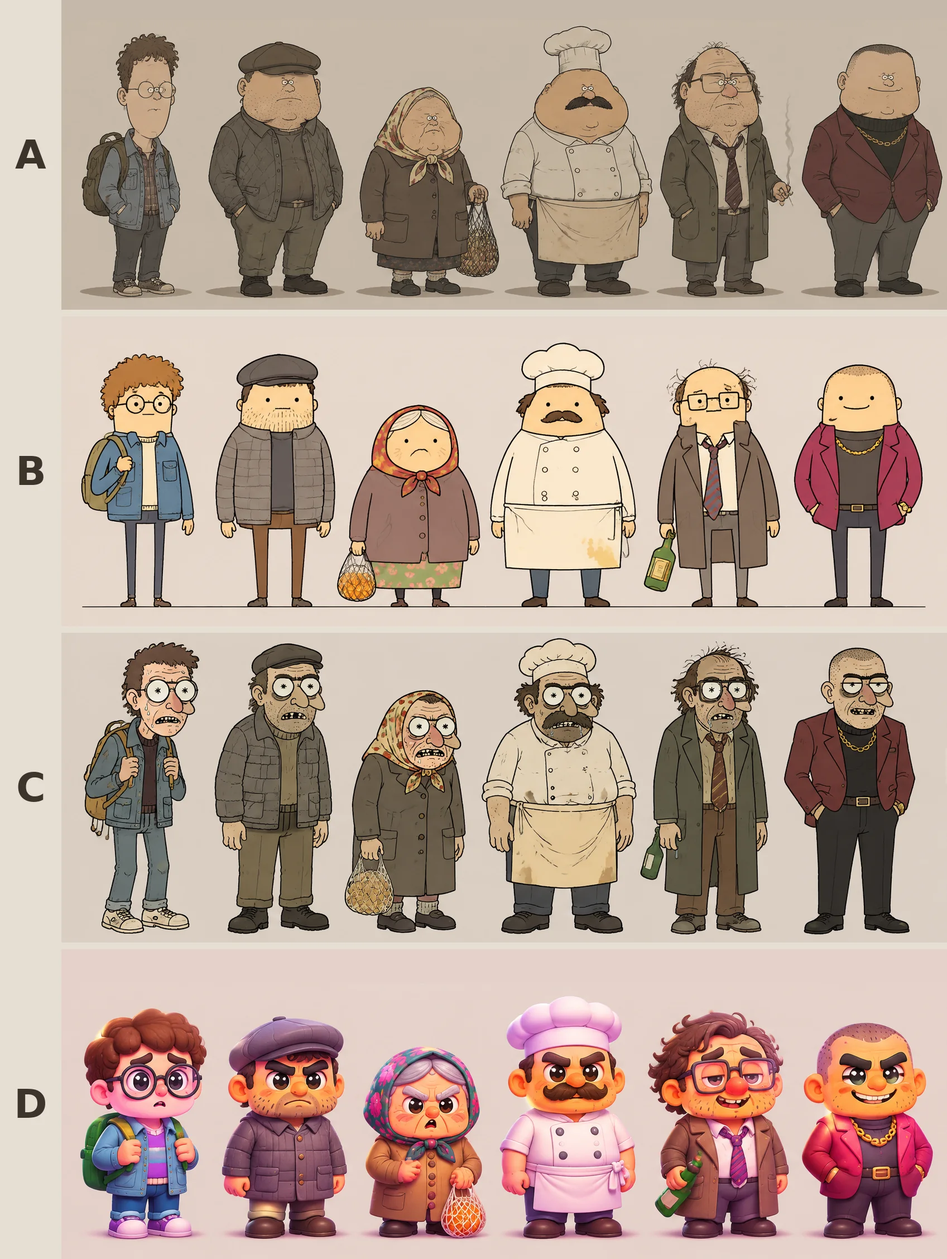
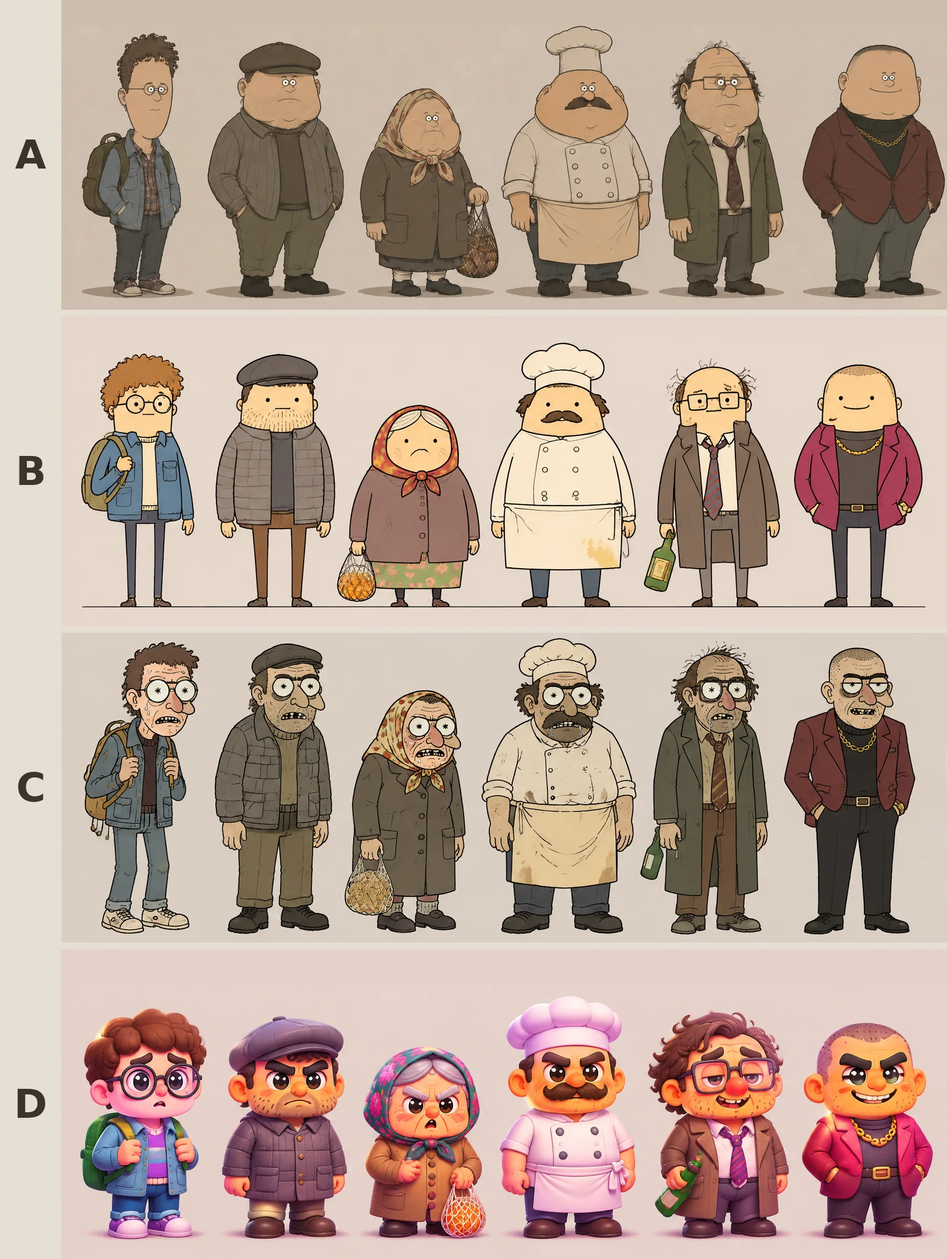
Дежурная часть: стиль A проверен на нейронные артефакты и перегенерирован
Персонажи листов направления A просмотрены при увеличении 150–300 %:
глаза читались как пенсне, очки не обрамляли глаза, у одной кисти лишние
пальцы, пуговицы несимметричны, шрам менял форму от кадра к кадру,
выражения не различались. Лист A исправлен правкой по образцу в три
прохода, второй лист снят заново: девять горизонтальных кадров игры со
всеми семью задержанными и сержант спереди и сбоку.

Перегенерация шла через OpenAI API (старшая модель GPT Image, качество
high): кредитов Higgsfield осталось меньше, чем на один лист. Дефекты,
правки, остаток и расход записаны в dezhurka/img/style/README.md;
скрипт запроса — dezhurka/tools/gpt_sheet.sh.

Claude-Session: https://claude.ai/code/session_0159zwh7Un9PcCnf2fLMg8EN

diff --git a/dezhurka/img/style/README.md b/dezhurka/img/style/README.md
@@ -1,23 +1,25 @@
 # Листы стиля: четыре направления графики
 
-Черновой подбор стиля графики и персонажей для «Дежурной части». Один и тот же кадр игры, одни и те
-же шесть задержанных и шесть вещей нарисованы в четырёх стилях, чтобы сравнивать стиль, а не сюжет.
-Это не финальные ассеты и в игру не подключены.
+Подбор стиля графики и персонажей для «Дежурной части». Один и тот же кадр игры, одни и те же шесть
+задержанных и шесть вещей нарисованы в четырёх стилях, чтобы сравнивать стиль, а не сюжет. В игру
+листы не подключены.
 
-| Лист | Направление | От какого сериала отталкивались | Что получилось |
+**Выбрано направление A** (решение владельца, 21.11.2026). Его листы проверены на нейронные
+артефакты и перегенерированы лучшей моделью на высоком качестве. Листы B, C и D остались черновиками
+для сравнения.
+
+| Лист | Направление | От какого сериала отталкивались | Состояние |
 |---|---|---|---|
-| `a_grounded_thriller.webp` | приземлённый взрослый 2D-триллер | Common Side Effects (главный, разобран подробнее всех) | большие «баллонные» головы с мелкими чертами в центре, тонкая ровная линия, землистая палитра, свет как в кино |
-| `b_storybook.webp` | сказочный 2D-мультфильм | «Время приключений» | простые округлые формы, глаза-точки, тонкие конечности, плоский цвет, тёплый живописный фон |
-| `c_scifi_sitcom.webp` | грубоватый взрослый ситком | «Рик и Морти» | круглые белые глаза с зрачками-звёздочками, ровный чёрный контур, плоская заливка, кислотный свет лампы |
-| `d_toy_3d.webp` | игрушечное 3D | Battle Kitty | чиби-пропорции, гладкие «пластиковые» объёмы, конфетная палитра, вещи как предметы инвентаря |
-| `lineups.webp` | сравнение | — | шеренги персонажей из четырёх листов одна под другой (собрано из листов, без генерации) |
-| `a2_faces.webp` | второй лист направления A | лист A как образец стиля | шесть кадров игры без решётки (один задержанный с тремя выражениями и ещё трое) и сержант спереди и сбоку |
+| `a_grounded_thriller.webp` | приземлённый взрослый 2D-триллер | Common Side Effects (главный, разобран подробнее всех) | проверен и исправлен в три прохода |
+| `a2_faces.webp` | второй лист направления A | исправленный лист A как образец | девять кадров игры (все семь задержанных, у «Иванова» три состояния) и сержант спереди и сбоку |
+| `b_storybook.webp` | сказочный 2D-мультфильм | «Время приключений» | черновик |
+| `c_scifi_sitcom.webp` | грубоватый взрослый ситком | «Рик и Морти» | черновик |
+| `d_toy_3d.webp` | игрушечное 3D | Battle Kitty | черновик |
+| `lineups.webp` | сравнение | — | шеренги из четырёх листов одна под другой (собрано из листов, без генерации) |
 
 Разбор стилей с источниками — `docs/research/08-art-style-references.md`.
 
-**Выбрано направление A** (решение владельца, 21.11.2026). Листы B, C и D оставлены для сравнения.
-
-## Как устроен лист
+## Как устроен лист стиля
 
 Три зоны: слева вверху кадр игры (вид из дежурки через решётку, сержант и задержанный, лоток
 с вещами), справа шесть вещей по отдельности, внизу шеренга из шести задержанных в полный рост и
@@ -27,22 +29,78 @@
 техническая инструкция (правило проекта). Стиль описан признаками (пропорции, линия, цвет, свет,
 фон), названий сериалов и их героев в промптах нет; персонажи свои.
 
+## Проверка направления A на нейронные артефакты
+
+Каждого персонажа смотрели на листе целиком и во фрагментах с увеличением 150–300 %: глаза и очки,
+руки и пальцы, одежда и её симметрия, приметы, вещи, эпоха. Так же проверяется каждый кадр
+основного проекта (`assets/ep01/_regen/README.md`, «Порядок работы», п. 3).
+
+Что нашлось в первых версиях (Higgsfield, `quality: low`):
+
+| Дефект | Где |
+|---|---|
+| Глаза — два кружка с перемычкой и «дужками» к ушам: читаются как пенсне | почти все, сильнее всего «Иванов», бабушка и сержант |
+| Глаза сидят на переносице между стёклами, стёкла наезжают друг на друга | студент, человек в пальто |
+| Кисть с сигаретой слеплена, лишние пальцы; сигареты в описании не было | человек в пальто |
+| Пуговицы на кителе повара: слева три, справа четыре; крестик-артефакт на свитере | повар, рабочий |
+| Сержант в очках в кадре игры и без очков на втором листе | сержант |
+| Шрам — крест на лбу, на втором листе в каждом кадре другой формы; татуировка — закорючка | «Иванов» |
+| На втором листе справа вместо пола огромная деревянная плоскость | фон кадров |
+| Выражения лица почти не различаются, кадры вертикальные | второй лист |
+| Эпоха: шнурованные ботинки, двуглавый орёл на паспорте в других листах | сержант, паспорт |
+
+Что сделано:
+
+- лист A исправлен правкой по образцу в три прохода (`fix_a_pass1.txt` … `fix_a_pass3.txt`): каждый
+  проход получает предыдущую версию и список правок, остальное не трогает;
+- второй лист снят заново по исправленному листу A (`sheet_a2_faces.txt`): девять горизонтальных
+  кадров 3:2 с одной камерой и одним вестибюлем, состояния сыграны головой, плечами и руками.
+
+Что осталось после проверки:
+
+- у рабочего, повара и коммерсанта на листе A между глазами при увеличении 300 % видна короткая
+  перемычка; на листе в натуральную величину её не видно, на втором листе её нет у тех, кого
+  смотрели крупно («Иванов», рабочий, человек в пальто);
+- у человека в пальто во втором листе очки съехали, правый глаз наполовину вне стекла: для
+  подвыпившего это читается как замысел, но для чистового кадра стоит задать явно;
+- шрам «Иванова» тонкий и бледный: на листе виден, в окне игры на телефоне потеряется, для игры его
+  нужно задавать жирнее;
+- дубинка у сержанта с боковой рукоятью; у милиции тех лет обычной была прямая (сверить по
+  референсам перед чистовой генерацией); часы и магнитола без примет конкретной модели.
+
 ## Генерация
+
+Первые версии, пять листов (2026-11-21):
 
 | Что | Значение |
 |---|---|
-| Сервис, модель | Higgsfield, `gpt_image_2_6` (GPT Image 2.6, новейшая модель OpenAI в каталоге сервиса) |
+| Сервис, модель | Higgsfield, `gpt_image_2_6` |
 | Настройки | `quality: low`, `resolution: 2k`, `aspect_ratio: 3:2` → 2048×1360 |
-| Цена | 1,25 кредита за лист, 6,25 кредита за пять (2026-11-21); повторов не было |
+| Цена | 1,25 кредита за лист, 6,25 кредита за пять; повторов не было; на счёте осталось 0,25 |
 | Job id | A `49815dd8-692b-45e2-aadf-9a1d55cbefd7`, B `01dfaba3-5a0f-4f91-a35c-4920caae290a`, C `1c691dc4-e4b1-448d-ade5-dfdb8bd5885f`, D `616c16a8-d36d-4341-b3c2-3771bf12b2d3`, A2 `2d5a1aae-0743-4abd-b6fe-e8ce54cd7152` |
-| Второй лист | промпт целиком в `sheet_a2_faces.txt`; лист A передан образцом (`image_references` = job id листа A), на цену это не влияет |
-| В репозитории | WebP, качество 84, размер исходный; исходные PNG по 3,3–3,5 МБ не хранятся |
+
+Первые версии листов A и A2 лежат в истории git (коммиты `3e280b7` и `eae2704`).
+
+Перегенерация направления A (2026-11-21):
+
+| Что | Значение |
+|---|---|
+| Сервис, модель | OpenAI API напрямую, `gpt-image-2.6-sunburst` — старшая из двух моделей GPT Image 2.6 |
+| Настройки | `quality: high`, 2048×1360, запрос правки с листом-образцом (`/v1/images/edits`) |
+| Почему не Higgsfield | кредитов осталось меньше, чем на один лист; порядок «сначала кредиты Higgsfield, потом OpenAI API» и качество high для всего с людьми — решения владельца из `assets/ep01/_regen/README.md` |
+| Запросы | четыре: три прохода правок листа A и новый лист A2; каждый по 35–40 секунд, повторов не было |
+| Расход | 7 352 токена изображения на выходе, 5 828 токенов изображения и 2 540 токенов текста на входе; около $0,28 при $30 за миллион выходных токенов (страница модели) и $8 / $5 за миллион входных (по сторонним сводкам, не сверено) |
+| Скрипт | `tools/gpt_sheet.sh <prompt.txt> <out.png> [образец.png …]`; ключ подставляет сеть сессии |
+
+В репозитории лежат WebP (качество 84, размер исходный); исходные PNG по 3–4 МБ не хранятся.
 
 ## Что видно по результату
 
 - **A.** Ближе всего к задаче и к оригиналу стиля: типажи «некрасивые, но живые», вестибюль выглядит
-  настоящим, палитра совпадает с нынешним интерфейсом игры (будка, дерево, казённая бумага). Шрам и
-  татуировка читаются. Лица сдержанные: эмоцию придётся играть позой и репликой, а не мимикой.
+  настоящим, палитра совпадает с нынешним интерфейсом игры (будка, дерево, казённая бумага).
+- **A2.** Девять кадров держат одну камеру и один вестибюль, персонажи совпадают с листом A.
+  Состояния читаются с первого взгляда, потому что сыграны позой: голова, плечи, руки. Кадры
+  горизонтальные, как окно в игре; набор покрывает всех семерых задержанных.
 - **B.** Самый простой в производстве: формы и лица можно рисовать и анимировать вручную или в SVG.
   Милый тон спорит с темой (дежурка, задержанные, взятка): выходит уютная сказка про милицию.
 - **C.** Самый смешной и самый узнаваемый. Риск в этом же: глаза и рты считываются как чужой сериал,
@@ -51,27 +109,13 @@
   привычный ей вид. Тон детский, с темой спорит сильнее всех; в игре потребовал бы 3D-моделей или
   генерации каждого кадра.
 
-Общие неточности черновика, которые не относятся к стилю: на паспорте в листах B, C и D двуглавый
-орёл (в октябре 1994 года на руках были паспорта СССР), на листе A обложка без герба; часы и
-магнитола без примет конкретной модели. При чистовой генерации это задаётся в описании вещей.
-
-## Второй лист направления A
-
-- Стиль и персонажи удержались: с листом-образцом модель повторила линию, палитру, свет и типажи,
-  вестибюль одинаков во всех шести кадрах. Значит, набор кадров для игры можно делать тем же приёмом.
-- Шрам и татуировка «Иванова» видны с первого взгляда, сержант спереди и сбоку согласован.
-- **Выражения почти не различаются.** Три состояния одного лица (устал, раздражён, пойман)
-  отличаются бровями и каплей пота; на телефоне, где окно шириной около 350 pt, разницы не будет
-  видно. Это плата за мелкие черты в центре большой головы. Эмоцию в этом стиле надо играть
-  крупнее: поворот головы, плечи, руки, взгляд в сторону, либо увеличить глаза и рот.
-- Кадры вышли вертикальными (примерно 4:5), а окно в игре горизонтальное: для игры формат кадра
-  придётся задавать жёстче или кадрировать.
-- Шрам у «Иванова» лёг через лоб, а не через бровь, как в ориентировке.
+В черновиках B, C и D на паспорте двуглавый орёл (в октябре 1994 года на руках были паспорта СССР);
+на листе A обложка с круглой эмблемой без надписей.
 
 ## Что дальше
 
-- Набор для игры в стиле A: лист-«опознание» с семью задержанными и пустым вестибюлем, как в
-  `img/draft/`, с листом A образцом; режется тем же `tools/cut_sheet.py`. Один лист 2k стоит
-  1,25 кредита.
+- Кадры для игры в стиле A: по одному кадру на задержанного в чистовом размере, с листом A2 образцом,
+  пустой вестибюль отдельно; шрам и татуировку «Иванова» задать крупнее. Подключить как третий режим
+  графики рядом с «Фото» и «Рисованной».
 - Вещи из лотка и бумаги в том же стиле отдельным листом.
-- На счёте Higgsfield после пяти листов осталось 0,25 кредита: на следующий лист не хватит.
+- Сержант в кадре: сейчас в фото-режиме его нет, в стиле A он нарисован и спереди, и сбоку.
